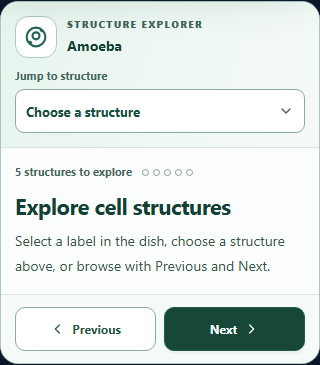
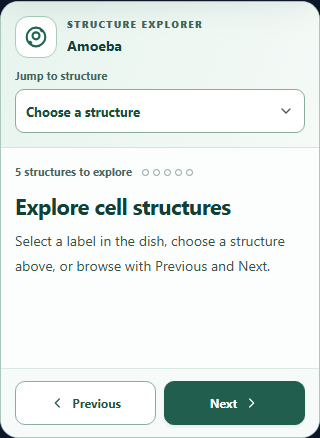
Keep cell structure navigation steady while reading

diff --git a/desktop/web-app/public/stem_lab/stem_tool_cell.js b/desktop/web-app/public/stem_lab/stem_tool_cell.js
@@ -23890,8 +23890,11 @@ var d = labToolData.cell || {};
 [data-cell-explanation-markers]{display:flex;gap:4px;flex-wrap:wrap}
 [data-cell-explanation-markers] span{width:7px;height:7px;border:1px solid #829e93;border-radius:50%;background:#fff}
 [data-cell-explanation-markers] span[data-current=true]{width:20px;border-radius:6px;background:#1d6553;border-color:#1d6553}
-[data-cell-explanation-title]{margin:0 0 10px;font-size:24px;font-weight:750;letter-spacing:-.55px;line-height:1.2;color:#133f35;text-wrap:balance}
-[data-cell-explanation-text]{max-width:76ch;margin:0;font-size:14px;line-height:1.75;color:#35554b}
+[data-cell-explanation-reading]{display:grid;min-width:0}
+[data-cell-explanation-copy]{grid-area:1 / 1;min-width:0}
+[data-cell-explanation-sizer]{visibility:hidden;pointer-events:none;user-select:none}
+[data-cell-explanation-copy] h3{margin:0 0 10px;font-size:24px;font-weight:750;letter-spacing:-.55px;line-height:1.2;color:#133f35;text-wrap:balance}
+[data-cell-explanation-copy] p{max-width:76ch;margin:0;font-size:14px;line-height:1.75;color:#35554b}
 [data-cell-label-focus-control]{display:flex;align-items:center;gap:10px;min-height:44px;margin:0 20px 16px;padding:10px 12px;border:1px solid #adc8bb;border-radius:10px;background:#f0f7f3;color:#254f40;font-size:12px;font-weight:700;line-height:1.5;cursor:pointer}
 [data-cell-label-focus-control] input{flex:none;width:18px;height:18px;margin:0;accent-color:#215e4e;cursor:pointer}
 [data-cell-label-focus-control]:focus-within{outline:3px solid #0f766e;outline-offset:3px}
@@ -23905,7 +23908,7 @@ var d = labToolData.cell || {};
 [data-cell-explanation-actions] button[data-cell-explanation-close]{margin-left:auto;border-color:transparent;background:transparent;color:#48685e}
 [data-cell-explanation-actions] button[data-cell-explanation-close]:hover{background:#e8f3ed;border-color:#8bab9c}
 [data-cell-explanation-actions] button:focus-visible{outline:3px solid #0f766e;outline-offset:3px}
-@container(max-width:400px){[data-cell-explanation-header]{padding:14px;gap:10px}[data-cell-explanation-body]{padding:16px 14px}[data-cell-explanation-title]{font-size:22px}[data-cell-explanation-actions]{display:grid;grid-template-columns:repeat(2,minmax(0,1fr));padding:12px 14px;gap:8px}[data-cell-explanation-actions] button{padding:9px 10px;flex:1}[data-cell-explanation-actions] button[data-cell-explanation-close]{flex-basis:100%;margin-left:0}}
+@container(max-width:400px){[data-cell-explanation-header]{padding:14px;gap:10px}[data-cell-explanation-body]{padding:16px 14px}[data-cell-explanation-copy] h3{font-size:22px}[data-cell-explanation-actions]{display:grid;grid-template-columns:repeat(2,minmax(0,1fr));padding:12px 14px;gap:8px}[data-cell-explanation-actions] button{padding:9px 10px;flex:1}[data-cell-explanation-actions] button[data-cell-explanation-close]{flex-basis:100%;margin-left:0}}
 @media(forced-colors:active){[data-cell-explanation-markers] span[data-current=true]{background:Highlight;border-color:Highlight}[data-cell-explanation-actions] button[data-cell-explanation-close]{border-color:ButtonText}}
 [data-cell-observation-tools]{grid-column:1 / -1;border-top:1px solid #50706e;margin-top:5px;padding-top:9px;display:flex;align-items:center;justify-content:space-between;gap:10px;flex-wrap:wrap}
 [data-cell-observation-identity]{display:flex;align-items:center;gap:7px;flex-wrap:wrap;font-size:12px}
@@ -25714,8 +25717,18 @@ h('div', { className: 'mt-2 grid gap-2 md:grid-cols-2' },
                     (activePlayDef || selDef).anatomy.map(function(a, index) { return React.createElement('span', { key: index, 'data-current': !!cellExplanation && index === cellExplanation.index ? 'true' : 'false' }); })
                   )
                 ),
-                React.createElement('h3', { 'data-cell-explanation-title': true }, cellExplanation ? cellExplanation.name : 'Explore cell structures'),
-                React.createElement('p', { 'data-cell-explanation-text': true }, cellExplanation ? cellExplanation.description : 'Select a label in the dish, choose a structure above, or browse with Previous and Next.')
+                React.createElement('div', { 'data-cell-explanation-reading': true },
+                  // Hidden sizing copies reserve enough room at the actual font and container width.
+                  // Only the current explanation is exposed to assistive technology.
+                  (activePlayDef || selDef).anatomy.map(function(a) {
+                    return React.createElement('div', { key: a.name, 'data-cell-explanation-copy': true, 'data-cell-explanation-sizer': true, 'aria-hidden': true },
+                      React.createElement('h3', null, a.name), React.createElement('p', null, a.fn));
+                  }),
+                  React.createElement('div', { 'data-cell-explanation-copy': true },
+                    React.createElement('h3', { 'data-cell-explanation-title': true }, cellExplanation ? cellExplanation.name : 'Explore cell structures'),
+                    React.createElement('p', { 'data-cell-explanation-text': true }, cellExplanation ? cellExplanation.description : 'Select a label in the dish, choose a structure above, or browse with Previous and Next.')
+                  )
+                )
               ),
               activeCellMode === 'observe' && cellExplanation && React.createElement('label', { 'data-cell-label-focus-control': true },
                 React.createElement('input', { type: 'checkbox', checked: !!d.focusSelectedLabel, onChange: function(e) { upd('focusSelectedLabel', e.target.checked); } }),

diff --git a/stem_lab/stem_tool_cell.js b/stem_lab/stem_tool_cell.js
@@ -23890,8 +23890,11 @@ var d = labToolData.cell || {};
 [data-cell-explanation-markers]{display:flex;gap:4px;flex-wrap:wrap}
 [data-cell-explanation-markers] span{width:7px;height:7px;border:1px solid #829e93;border-radius:50%;background:#fff}
 [data-cell-explanation-markers] span[data-current=true]{width:20px;border-radius:6px;background:#1d6553;border-color:#1d6553}
-[data-cell-explanation-title]{margin:0 0 10px;font-size:24px;font-weight:750;letter-spacing:-.55px;line-height:1.2;color:#133f35;text-wrap:balance}
-[data-cell-explanation-text]{max-width:76ch;margin:0;font-size:14px;line-height:1.75;color:#35554b}
+[data-cell-explanation-reading]{display:grid;min-width:0}
+[data-cell-explanation-copy]{grid-area:1 / 1;min-width:0}
+[data-cell-explanation-sizer]{visibility:hidden;pointer-events:none;user-select:none}
+[data-cell-explanation-copy] h3{margin:0 0 10px;font-size:24px;font-weight:750;letter-spacing:-.55px;line-height:1.2;color:#133f35;text-wrap:balance}
+[data-cell-explanation-copy] p{max-width:76ch;margin:0;font-size:14px;line-height:1.75;color:#35554b}
 [data-cell-label-focus-control]{display:flex;align-items:center;gap:10px;min-height:44px;margin:0 20px 16px;padding:10px 12px;border:1px solid #adc8bb;border-radius:10px;background:#f0f7f3;color:#254f40;font-size:12px;font-weight:700;line-height:1.5;cursor:pointer}
 [data-cell-label-focus-control] input{flex:none;width:18px;height:18px;margin:0;accent-color:#215e4e;cursor:pointer}
 [data-cell-label-focus-control]:focus-within{outline:3px solid #0f766e;outline-offset:3px}
@@ -23905,7 +23908,7 @@ var d = labToolData.cell || {};
 [data-cell-explanation-actions] button[data-cell-explanation-close]{margin-left:auto;border-color:transparent;background:transparent;color:#48685e}
 [data-cell-explanation-actions] button[data-cell-explanation-close]:hover{background:#e8f3ed;border-color:#8bab9c}
 [data-cell-explanation-actions] button:focus-visible{outline:3px solid #0f766e;outline-offset:3px}
-@container(max-width:400px){[data-cell-explanation-header]{padding:14px;gap:10px}[data-cell-explanation-body]{padding:16px 14px}[data-cell-explanation-title]{font-size:22px}[data-cell-explanation-actions]{display:grid;grid-template-columns:repeat(2,minmax(0,1fr));padding:12px 14px;gap:8px}[data-cell-explanation-actions] button{padding:9px 10px;flex:1}[data-cell-explanation-actions] button[data-cell-explanation-close]{flex-basis:100%;margin-left:0}}
+@container(max-width:400px){[data-cell-explanation-header]{padding:14px;gap:10px}[data-cell-explanation-body]{padding:16px 14px}[data-cell-explanation-copy] h3{font-size:22px}[data-cell-explanation-actions]{display:grid;grid-template-columns:repeat(2,minmax(0,1fr));padding:12px 14px;gap:8px}[data-cell-explanation-actions] button{padding:9px 10px;flex:1}[data-cell-explanation-actions] button[data-cell-explanation-close]{flex-basis:100%;margin-left:0}}
 @media(forced-colors:active){[data-cell-explanation-markers] span[data-current=true]{background:Highlight;border-color:Highlight}[data-cell-explanation-actions] button[data-cell-explanation-close]{border-color:ButtonText}}
 [data-cell-observation-tools]{grid-column:1 / -1;border-top:1px solid #50706e;margin-top:5px;padding-top:9px;display:flex;align-items:center;justify-content:space-between;gap:10px;flex-wrap:wrap}
 [data-cell-observation-identity]{display:flex;align-items:center;gap:7px;flex-wrap:wrap;font-size:12px}
@@ -25714,8 +25717,18 @@ h('div', { className: 'mt-2 grid gap-2 md:grid-cols-2' },
                     (activePlayDef || selDef).anatomy.map(function(a, index) { return React.createElement('span', { key: index, 'data-current': !!cellExplanation && index === cellExplanation.index ? 'true' : 'false' }); })
                   )
                 ),
-                React.createElement('h3', { 'data-cell-explanation-title': true }, cellExplanation ? cellExplanation.name : 'Explore cell structures'),
-                React.createElement('p', { 'data-cell-explanation-text': true }, cellExplanation ? cellExplanation.description : 'Select a label in the dish, choose a structure above, or browse with Previous and Next.')
+                React.createElement('div', { 'data-cell-explanation-reading': true },
+                  // Hidden sizing copies reserve enough room at the actual font and container width.
+                  // Only the current explanation is exposed to assistive technology.
+                  (activePlayDef || selDef).anatomy.map(function(a) {
+                    return React.createElement('div', { key: a.name, 'data-cell-explanation-copy': true, 'data-cell-explanation-sizer': true, 'aria-hidden': true },
+                      React.createElement('h3', null, a.name), React.createElement('p', null, a.fn));
+                  }),
+                  React.createElement('div', { 'data-cell-explanation-copy': true },
+                    React.createElement('h3', { 'data-cell-explanation-title': true }, cellExplanation ? cellExplanation.name : 'Explore cell structures'),
+                    React.createElement('p', { 'data-cell-explanation-text': true }, cellExplanation ? cellExplanation.description : 'Select a label in the dish, choose a structure above, or browse with Previous and Next.')
+                  )
+                )
               ),
               activeCellMode === 'observe' && cellExplanation && React.createElement('label', { 'data-cell-label-focus-control': true },
                 React.createElement('input', { type: 'checkbox', checked: !!d.focusSelectedLabel, onChange: function(e) { upd('focusSelectedLabel', e.target.checked); } }),

diff --git a/tests/e2e/cell-explanation-refinement.spec.ts b/tests/e2e/cell-explanation-refinement.spec.ts
@@ -36,7 +36,23 @@ for(const width of [280,320,1200])test('external structure explorer at '+width,a
  await expect(panel.locator('[data-cell-explanation-title]')).toHaveText('Endoplasmic Reticulum');
  expect(await canvas.evaluate((c:any)=>c._cellSimGetObservationView())).toEqual(initial);
  const count=await canvas.evaluate((c:any)=>c._cellSimGetAnatomyLabels().length);
- for(let i=0;i<count;i++)await next.click();
+ // Different explanation lengths must not move the navigation targets.
+ const footerTop=()=>panel.locator('[data-cell-explanation-actions]').evaluate(e=>e.getBoundingClientRect().top-e.parentElement!.getBoundingClientRect().top);
+ const initialFooter=await footerTop();
+ for(let i=0;i<count;i++){
+  await next.click();
+  expect(Math.abs(await footerTop()-initialFooter)).toBeLessThan(1);
+  await expect(next).toBeFocused();
+  await expect(panel.getByRole('heading')).toHaveCount(1);
+  const copy=panel.locator('[data-cell-explanation-copy]:not([data-cell-explanation-sizer])');
+  const textBounds=(await copy.locator('p').boundingBox())!,readingBounds=(await panel.locator('[data-cell-explanation-reading]').boundingBox())!;
+  expect(textBounds.y+textBounds.height).toBeLessThanOrEqual(readingBounds.y+readingBounds.height+1);
+ }
+ // Intrinsic sizing must also follow larger reading text without clipping.
+ const readingStyle=await page.addStyleTag({content:'[data-cell-explanation-copy] p{font-size:20px!important}[data-cell-explanation-copy] h3{font-size:30px!important}'});
+ const enlargedFooter=await footerTop();
+ for(let i=0;i<count;i++){await next.click();expect(Math.abs(await footerTop()-enlargedFooter)).toBeLessThan(1);}
+ await readingStyle.evaluate(e=>e.remove());
  await expect(panel.locator('[data-cell-explanation-title]')).toHaveText('Endoplasmic Reticulum');
  const buttons=await panel.getByRole('button').evaluateAll(nodes=>nodes.map(n=>({w:n.getBoundingClientRect().width,h:n.getBoundingClientRect().height})));
  expect(buttons.every(b=>b.w>=44&&b.h>=44)).toBe(true);

diff --git a/reports/cell-structure-explorer/README.md b/reports/cell-structure-explorer/README.md
@@ -79,3 +79,11 @@ Hovering or selecting a structure now softens competing connector paths and thei
 Existing focus checks cover desktop/phone hover, selection, dismissal, specimen changes and play interactions. The moving-specimen checks verify stable label rows across 120 frames at both sizes. Updated visual evidence is in reports/cell-label-focus.
 
 All five existing focus and moving-label browser scenarios passed. Reviewed phone selection and desktop hover screenshots. Source syntax, scoped whitespace and four-way mirror parity passed. No push or deployment.
+
+## Steady structure navigation — 2026-09-19
+
+The explorer reading area now reserves the space needed for the selected specimen's longest rendered explanation. CSS grid sizing uses the actual heading, body text, font size and available width, so Previous/Next stay in place while browsing instead of following each description's length. Text remains fully wrapped with no fixed-height clipping or inner scrolling. Hidden sizing copies are excluded from assistive technology; only the active explanation is exposed.
+
+The existing explorer browser checks now traverse all structures at 280/320/1200px, verify stable action-row position and retained keyboard focus, check a single accessible heading and unclipped descriptions, and repeat navigation at enlarged text sizes. Existing layout checks cover resizing between wide split view, narrow app containers and phones, plus full-width play mode.
+
+All six explorer/layout browser scenarios passed, including larger-text navigation and play behavior. Phone and desktop sidebar screenshots reviewed. Source syntax, scoped whitespace and four-way mirror parity passed. No push or deployment.
